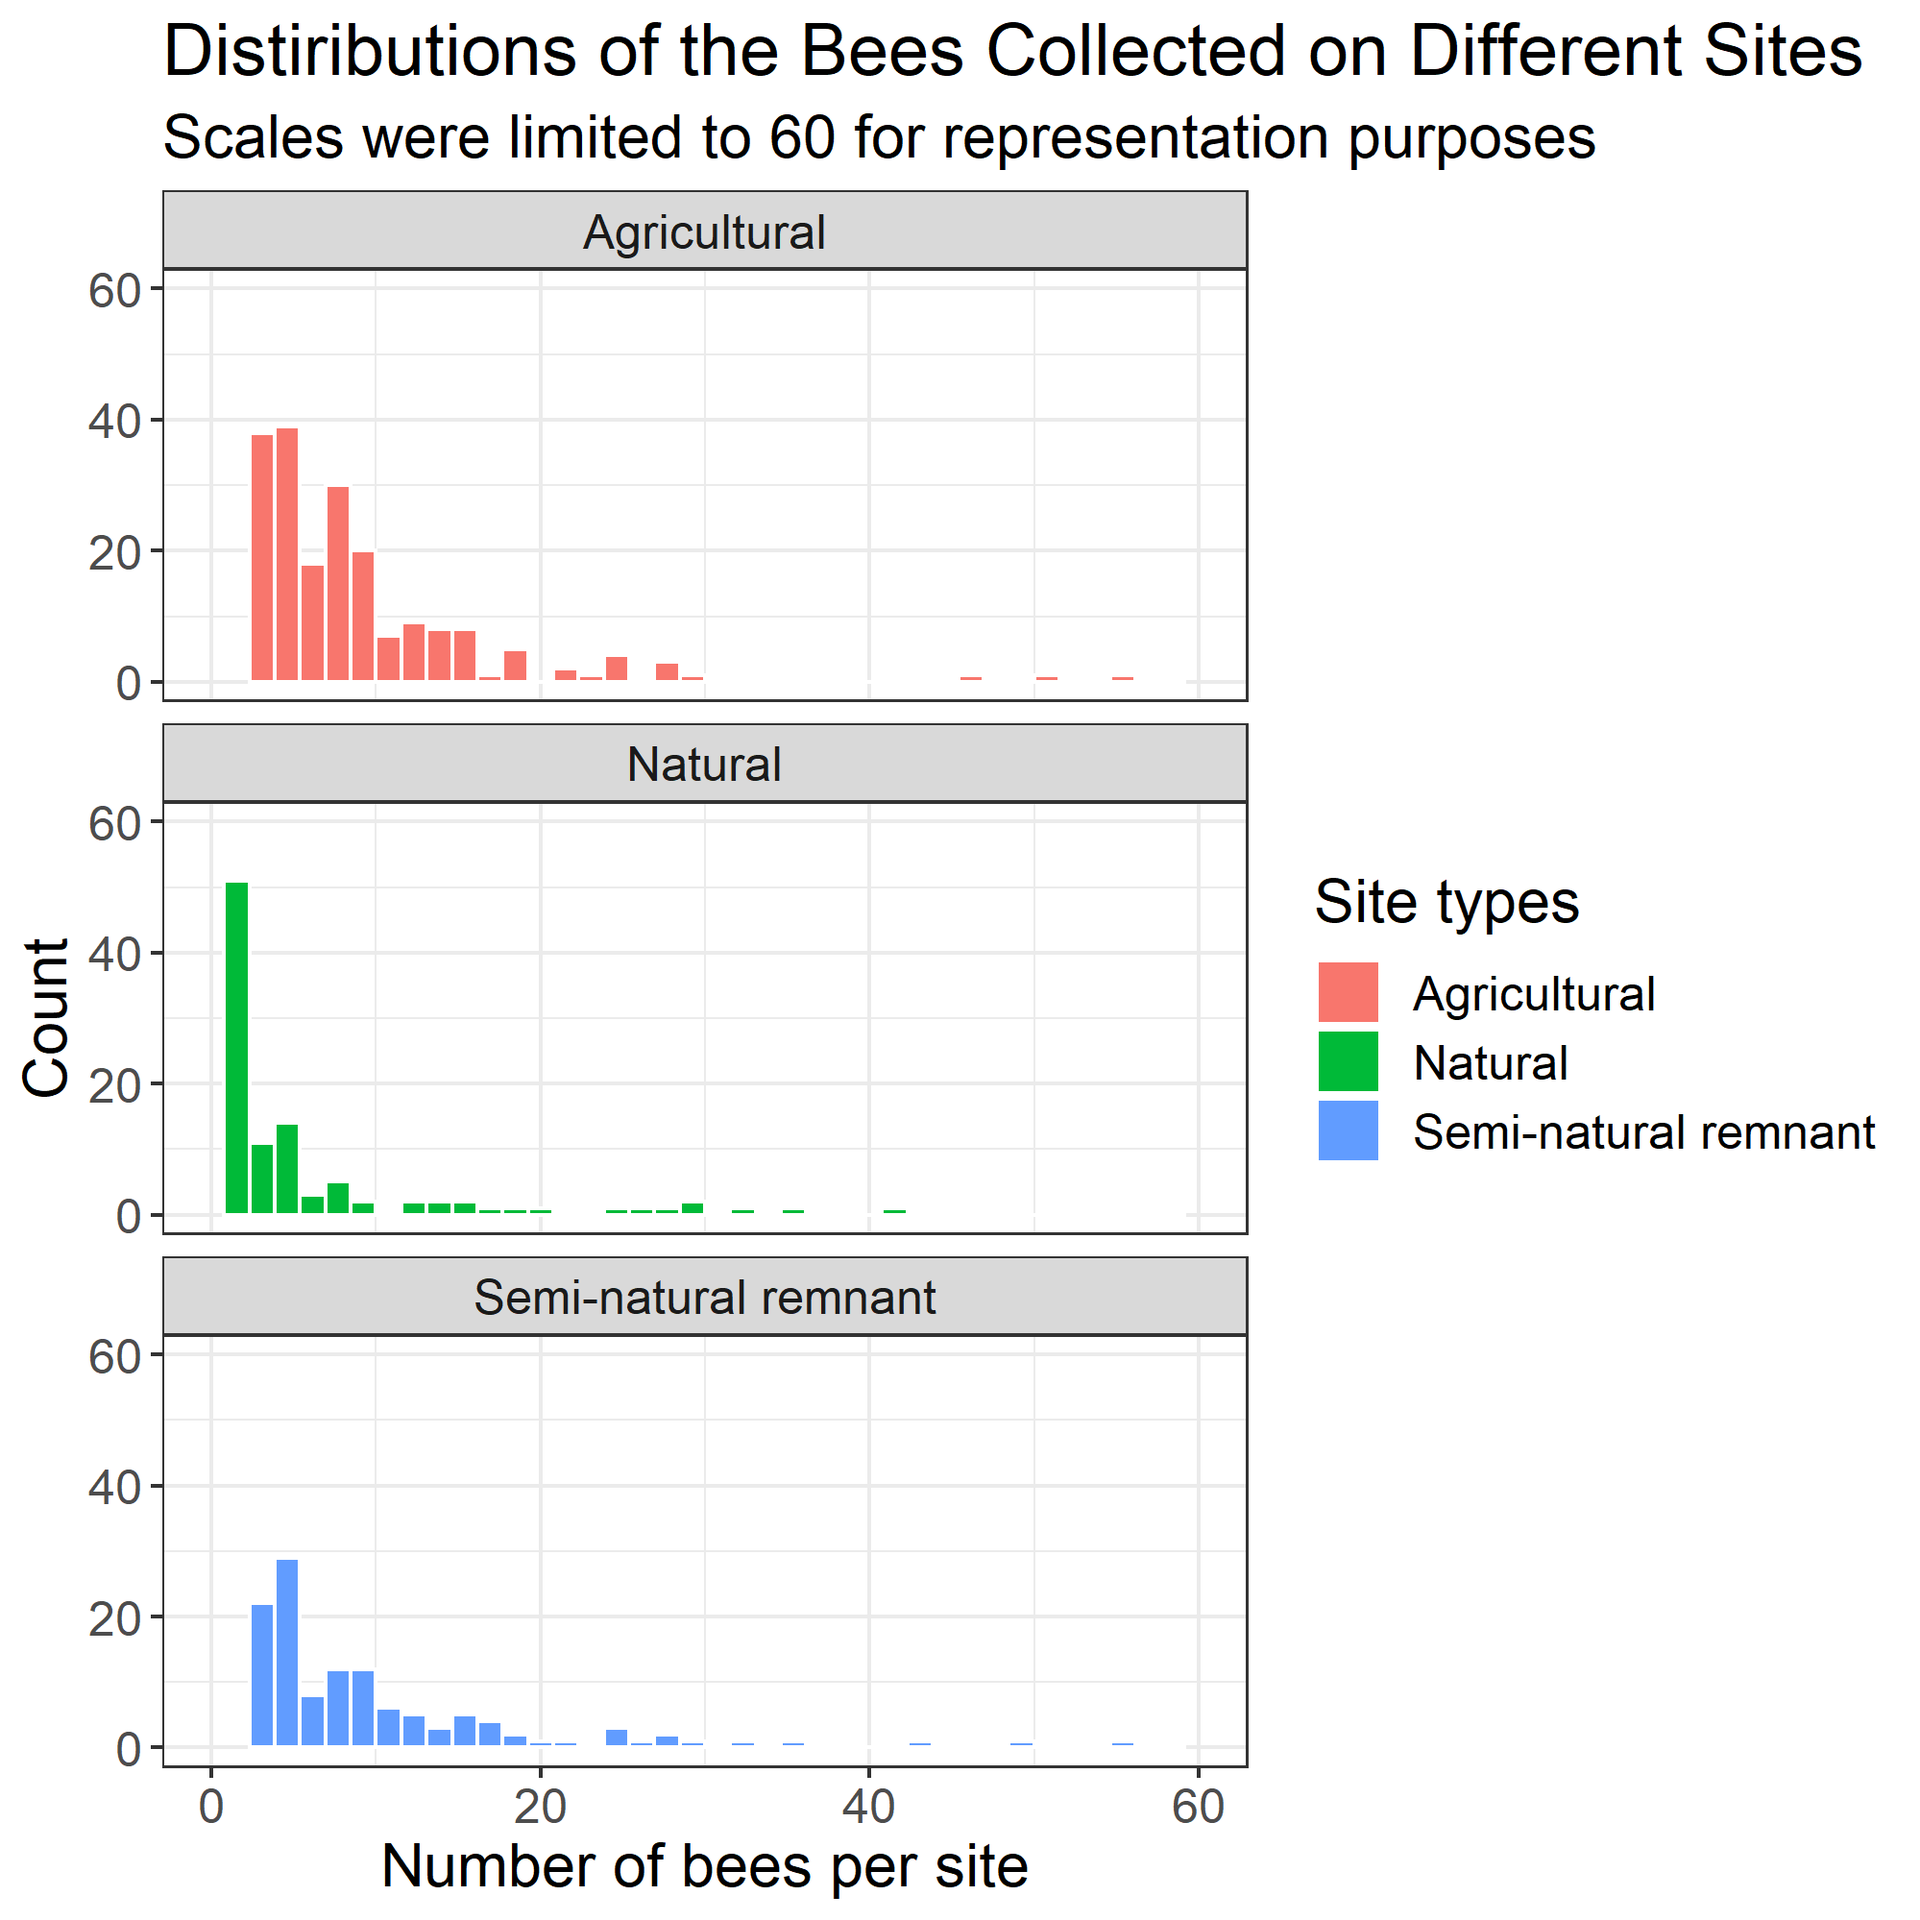
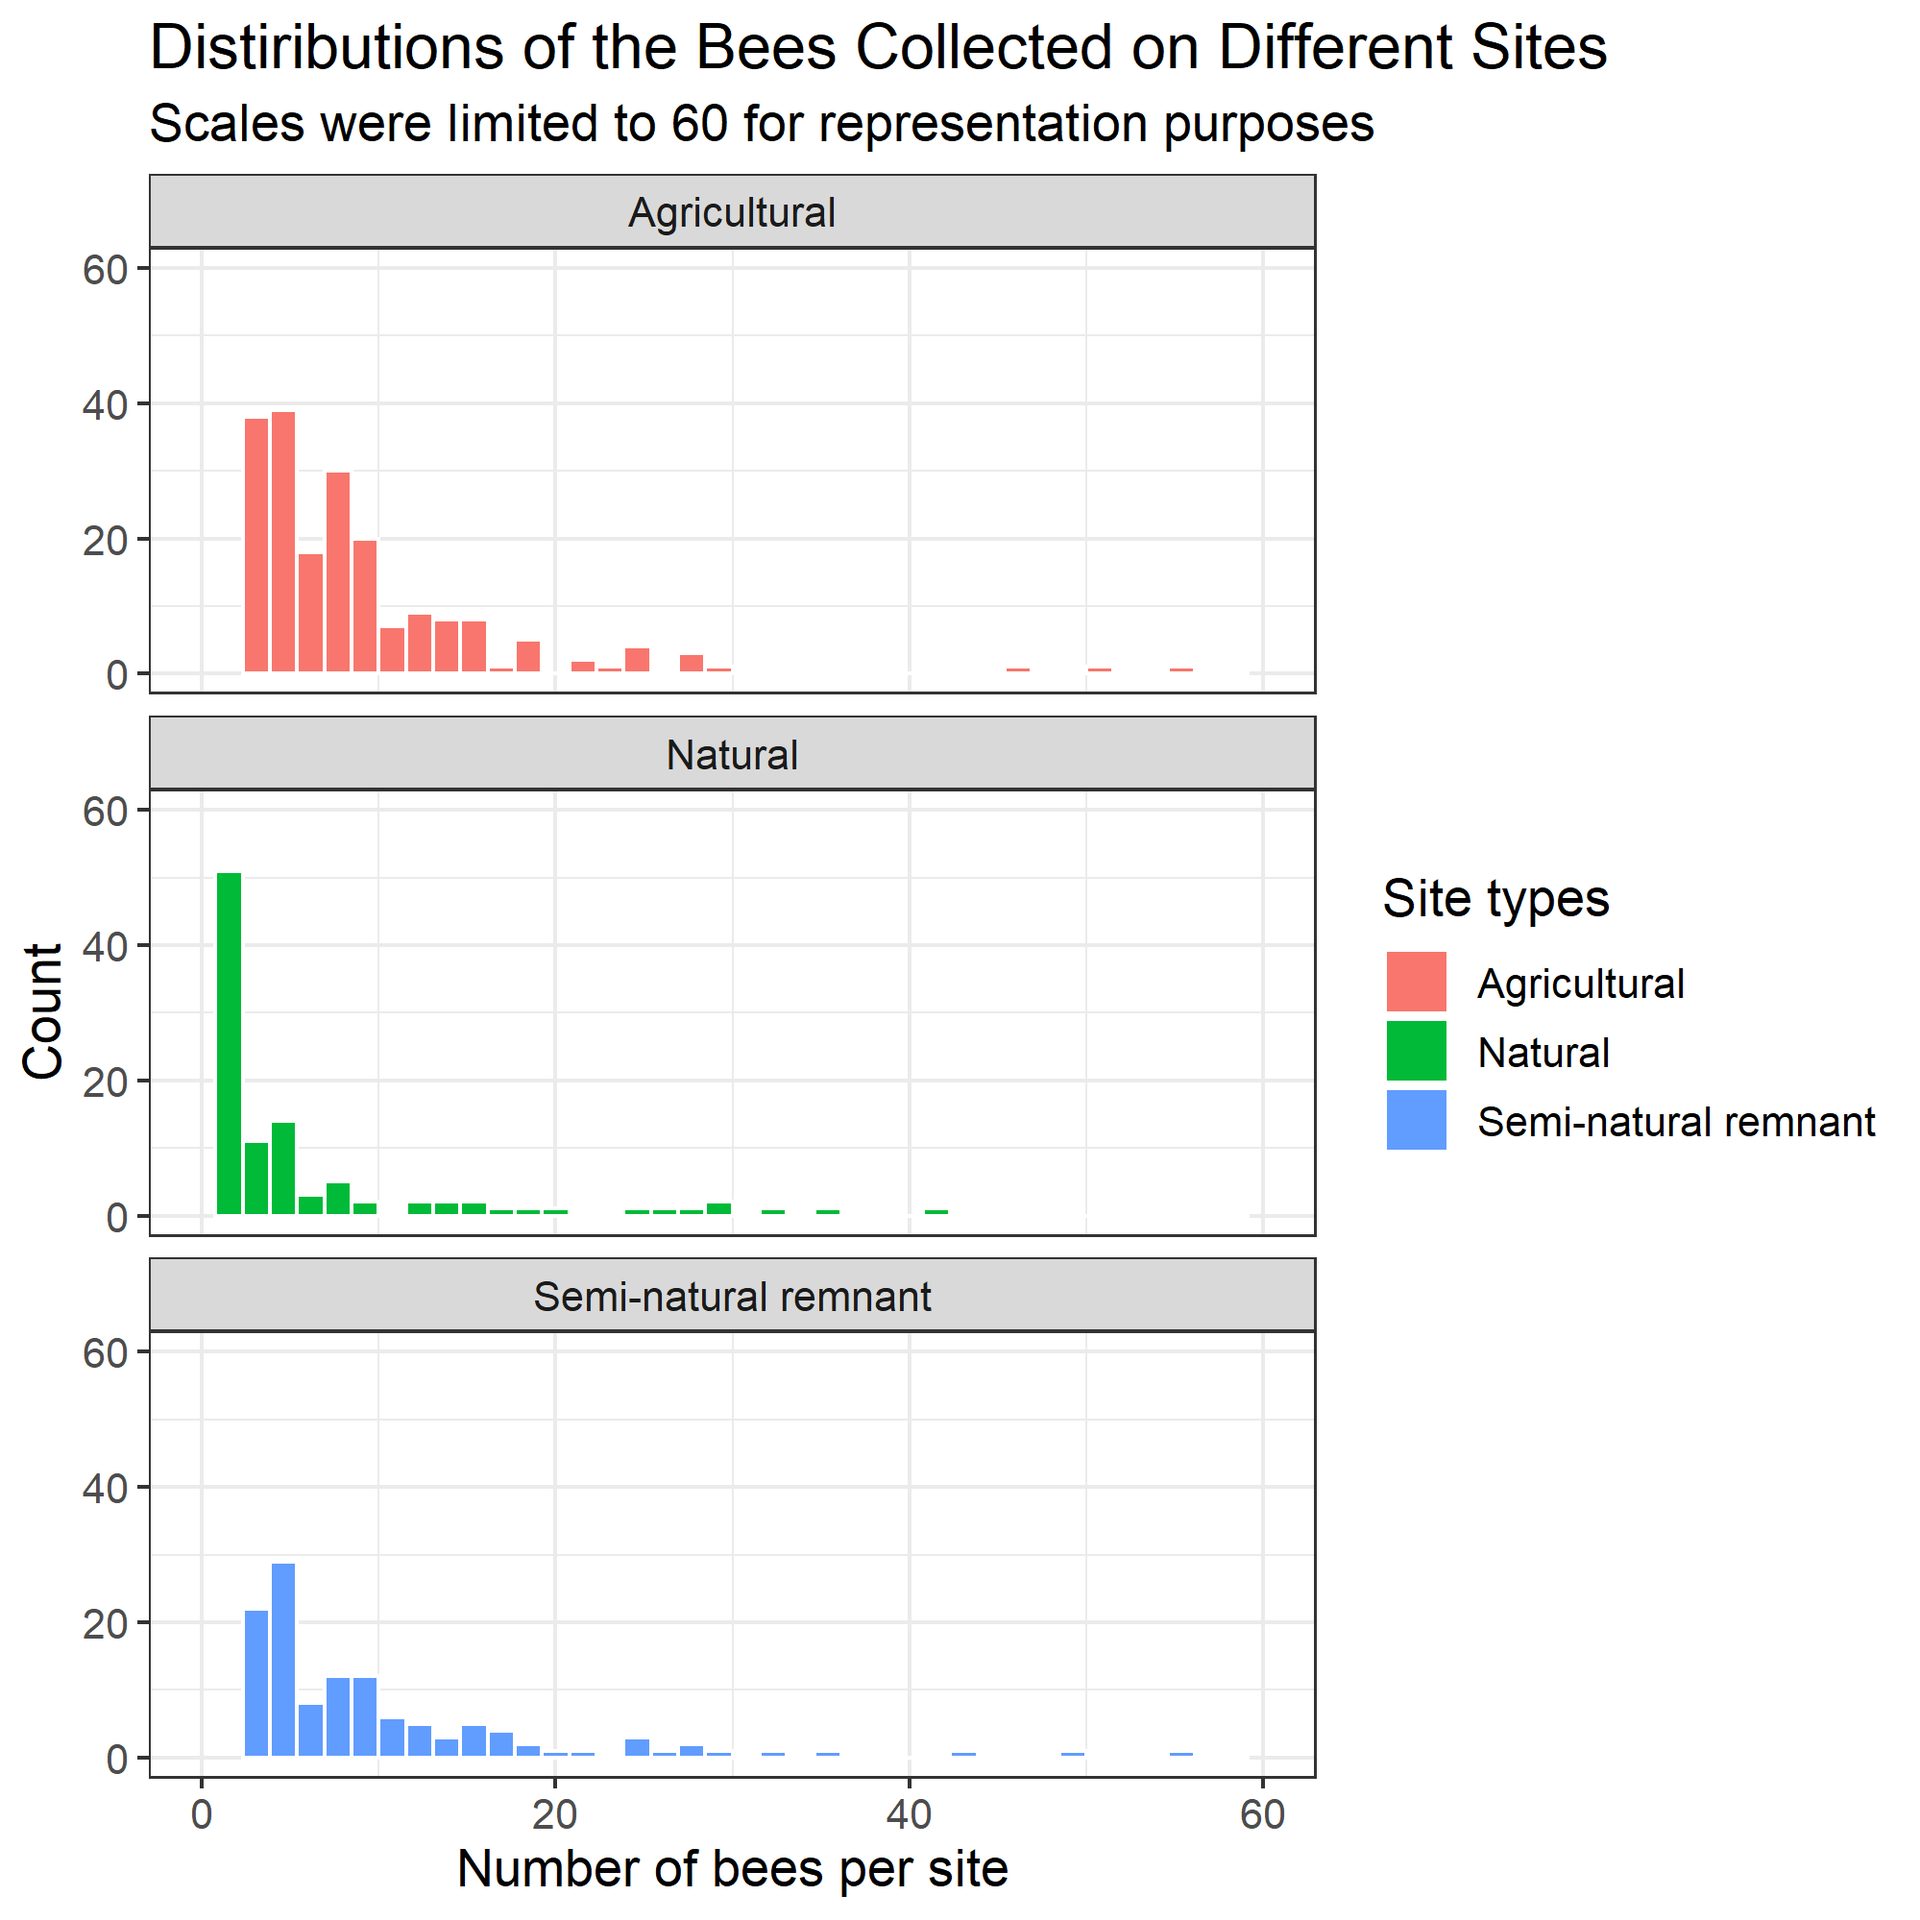
resized the figures in EDA

diff --git a/src/eda_bee.md b/src/eda_bee.md
@@ -46,7 +46,7 @@ The table below shows the number of each site where bumble bees were sampled.
 
 The following histogram shows the distributions of the bumble bee collected from different types of site. The distributions are highly right-skewed. The x axis of the following histogram was limited to 60 to show the shape of the distribution.
 
-<img src="bee_df_hist.png" width="400">
+<img src="bee_df_hist.png" width="500">
 
 **Figure 2**. The distribution of bee counts at each site type
 
